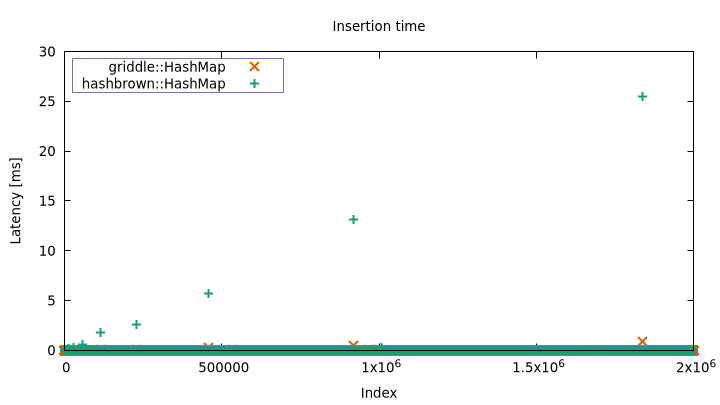
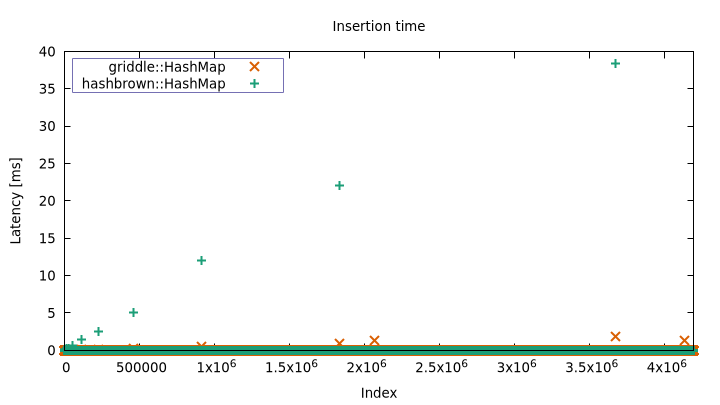
Avoid measuring noise in benchmark

diff --git a/benches/vroom.rs b/benches/vroom.rs
@@ -2,18 +2,16 @@ use griddle::HashMap as IncrHashMap;
 use hashbrown::HashMap;
 use std::time::{Duration, Instant};
 
-const N: u32 = 1 << 21;
+const N: u32 = 1 << 22;
 
 fn main() {
     let mut hm = HashMap::new();
-    let mut t = Instant::now();
     let mut mx = 0.0f64;
     let mut sum = Duration::new(0, 0);
     for i in 0..N {
+        let t = Instant::now();
         hm.insert(i, i);
-        let t2 = Instant::now();
-        let took = t2.duration_since(t);
-        t = t2;
+        let took = t.elapsed();
         mx = mx.max(took.as_secs_f64());
         sum += took;
         println!("{} hashbrown {} ms", i, took.as_secs_f64() * 1000.0);
@@ -25,14 +23,12 @@ fn main() {
     );
 
     let mut hm = IncrHashMap::new();
-    let mut t = Instant::now();
     let mut mx = 0.0f64;
     let mut sum = Duration::new(0, 0);
     for i in 0..N {
+        let t = Instant::now();
         hm.insert(i, i);
-        let t2 = Instant::now();
-        let took = t2.duration_since(t);
-        t = t2;
+        let took = t.elapsed();
         mx = mx.max(took.as_secs_f64());
         sum += took;
         println!("{} griddle {} ms", i, took.as_secs_f64() * 1000.0);

diff --git a/README.md b/README.md
@@ -62,9 +62,9 @@ just runs lots of inserts back-to-back, and measures how long each one
 takes. The problem quickly becomes apparent:
 
 ```console
-$ cargo bench --bench vroom > data.txt
-hashbrown::HashMap max: 25.481194ms, mean: 1.349µs
-griddle::HashMap max: 1.700794ms, mean: 1.362µs
+$ cargo bench --bench vroom > vroom.dat
+hashbrown::HashMap max: 38.335088ms, mean: 94ns
+griddle::HashMap max: 1.846561ms, mean: 126ns
 ```
 
 You can see that the standard library implementation (through
